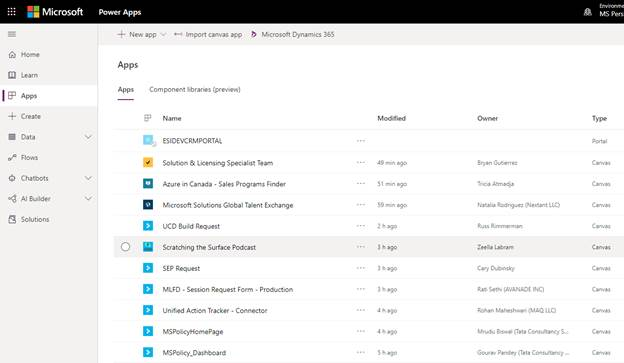
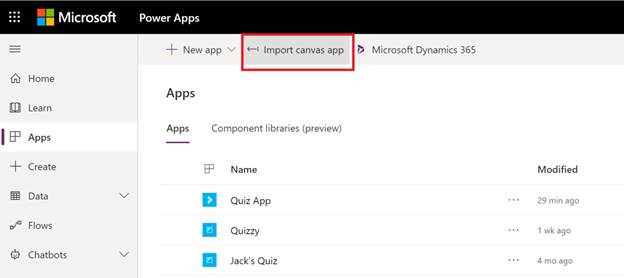
Updated Deployment Guide

diff --git a/README.md b/README.md
@@ -2,6 +2,8 @@
 
 **Quiz App** is a gamification based PowerApp hosted on Microsoft Teams. It is designed to test an end user’s knowledge on Microsoft Teams, thereby facilitating learning and it also helps in providing insights to the organization on areas to drive further awareness. The quiz, pinned on Microsoft Teams, can be easily accessible from any device at any time.
 
+It is a simple and interactive application and can be tailored for any of your internal Learning scenarios as well. The quiz is uniquely designed, in that, it randomly picks 10 questions from a large pool of questions, thereby ensuring that every user gets a unique experience. Questions are given along with four choices, and the user is provided an instant feedback whether he is right / wrong.
+
 ## Core Scenario
 ### Home: 
 This is app landing page that is displayed to the users once they login to the Quiz App.
@@ -22,42 +24,41 @@ On submission of the quiz by clicking "Submit Quiz" button, Total Score of the u
 ### Prerequisites
 To begin, you will need:
 * Power Apps Studio
-* SharePoint
+* SharePoint Online
 * Office 365 Groups connector
-* A copy of the Quiz app zip package (download here)
+* A copy of QuizApp zip package. Link to [QuizApp package](https://github.com/swatiarora11/QuizApp/blob/master/Deployment/QuizApp.zip)
 
 ### Step 1: Create SharePoint Team Site
 
 From Sharepoint Online, create a **Team Site** named as **Quiz**.
-<p> <img src="images/image050.png" />
-<p> <img src="images/image051.png" />
+<p> <img src="images/image003.png" />
+<p> <img src="images/image004.png" />
 
 ### Step 2: Create SharePoint Lists
 
-#### List1: Quiz Data
-This list contains the question bank that we will import from an Excel template. Get [Sample Quiz Data](https://github.com/swatiarora11/QuizApp/blob/master/Deployment/TeamsQuestionBank.xlsx). 
-<div>Note - *Please ensure to save this Excel file in a folder in your OneDrive for Business.*</div>
-
-Follow the below steps to create this list from the Excel file -
-1. Open **Lists** from the Office 365 Portal as shown below.<p> <img src="images/image003.png" />
-1. Select **New List**.<p> <img src="images/image004.png" />
-1. Select **From Excel** to import the list from the Excel file.<p> <img src="images/image005.png" />
-1. Select the file from the OneDrive for Business folder path and select **Next**.<p> <img src="images/image006.png" />
-1. You will see a **Loading Tables** message on pressing **Next** and it will thereafter load the table as shown below.<p> <img src="images/image007.jpg" />
-1. In above, we need to change the **Header field** for **Option 1** to **Title**. Note the change in below screenshot.<p> <img src="images/image008.png" />
-The list should now look as shown below – Select **Next** once this is done.<p> <img src="images/image009.png" />
-1. Set a **Name and Description** for the quiz. You may also set a color and icon (Optional)<p> <img src="images/image010.jpg" />
-1. In the **Save To** option, we now need to point to the **Quiz” Site** (which was created in **Step 1**) where this list must be deployed. Select this and click **Create** to initiate the creation of the list in the **Quiz Site**.<p> <img src="images/image011.png" />
-<br>Net outcome should be the list created as shown below –<p> <img src="images/image012.png" />
-1. Next, we need to again rename the Display Name for the column name **Title** to **Option 1**. To do this follow the screenshot below –<p> <img src="images/image013.png" /><p> <img src="images/image014.jpg" />
-<br>Net Result should look as shown below -<p> <img src="images/image015.png" />
+#### List1: Quiz Data (Question Bank for the quiz)
+1. We will use an Excel file containing the questions to create this list. For this, download the Excel Template from the repository here - [Sample Quiz Data](https://github.com/swatiarora11/QuizApp/blob/master/Deployment/TeamsQuestionBank.xlsx). 
+1. Navigate to the **Documents** document library folder in the Quiz team site and upload this excel document in the same.<p> <img src="images/image005.jpg" />
+1. Open **Site Contents** on the **Quiz Team Site** and select **New >> List**.<p> <img src="images/image006.jpg" />
+1. Enter the name of the List as **QuizData** and Select **From Excel** to import the list from the Excel file, saved in the **Documents** folder of the **Quiz Team Site**. Hit **Next** to continue.<p> <img src="images/image007.jpg" />
+1. You will see a **Loading Tables** message on pressing **Next** and it will thereafter load the table as shown below.<p> <img src="images/image008.jpg" />
+1. At this stage, we need to change the List Header fields as follows –
+* Set _Option1_ to _Title_
+* Set _SNo._ to _Number_
+* Set _Question_ to _Multiple lines of text_.
+<br>The columns should appear as shown below. Once you’re doing with this, click **Create**.<p> <img src="images/image009.jpg" />
+<br>Once created the **List** should look as shown below -<p> <img src="images/image010.png" />
+1. Next, we need to rename the column name **Title** to **Option1**. To do this follow the screenshot below –<p> <img src="images/image011.jpg" /><p> <img src="images/image012.jpg" />
+<br>Net Result should look as shown below -<p> <img src="images/image013.jpg" />
+1. Select **Option1** column and Drag & Drop the column before **Option2** for better readability of the list.<p> <img src="images/image014.jpg" />
+<br>The list should now look as below –<p> <img src="images/image015.jpg" />
 
 #### List2: User Quiz Data
 
 1. Navigate to the **Quiz** SharePoint site via the url - _https://<TenantName>.sharepoint.com/teams/Quiz_ and click on the **New** button to create a new **List**.<p> <img src="images/image016.jpg" />
 1. Add list name as **UserQuizData** and click **Create**. Please use this exact name for the list.
 1. Add below columns under **UserQuizData** list. Please make sure to follow exact naming convention for the columns as mentioned below.
-_**Note:** While creating the list, there is no need to add "Title" column, because SharePoint will automatically create that column_
+_**Note:** While creating the list, there is no need to add **Title** column, because SharePoint Online will automatically create that column_
 
 Name of Column     	| Type                	| Comment
 --------------------| ----------------------| ------------------------------------------------------------
@@ -67,53 +68,59 @@ Question			| Multiple line of text	| Captures the Question attempted by the user
 SubmittedAnswer		| Single Line of text	| Captures the response to the question by the user.
 Score				| Number				| Net score based on the answer to the question
 
-1. Rename the **Title** column to **Email**.<p> <img src="images/image055.jpg" /><p> <img src="images/image014.jpg" />
+1. Rename the **Title** column to **Email**.<p> <img src="images/image017.jpg" /><p> <img src="images/image018.jpg" />
+<br>Net Result will look as shown below –<p> <img src="images/image019.png" />
 
 #### List3: User Quiz Summary
 
 1. Navigate to the **Quiz** SharePoint site via the url - _https://<TenantName>.sharepoint.com/teams/Quiz_ and click on the **New** button to create a new **List**.<p> <img src="images/image016.jpg" />
 1. Add list name as **UserQuizSummary** and click **Create**. Please use this exact name for the list.
 1. Add below columns under **UserQuizSummary** list. Please make sure to follow exact naming convention for the columns as mentioned below.
-_**Note:** While creating the list, there is no need to add "Title" column, because SharePoint will automatically create that column_
+_**Note:** While creating the list, there is no need to add **Title** column, because SharePoint Online will automatically create that column_
 
 Name of Column     	| Type                	| Comment
 --------------------| ----------------------| ------------------------------------------------------------
 Title				| Single line of text	| Auto generated by SharePoint. We will rename this column to **Email** in next step.
-Name				| Single line of text	| Captures the Display name of the user.
+Name				| Single line of text	| Captures the full name of the user.
 Score				| Number 				| Score of the Quiz taken by User
 Status				| Yes/No				| Status of Quiz is taken by the user
 Time				| Number				| Time captured to attempt the Quiz in seconds
 
-1. Rename the **Title** column to **Email**.<p> <img src="images/image055.jpg" /><p> <img src="images/image014.jpg" />
+1. Rename the **Title** column to **Email**.<p> <img src="images/image017_1.jpg" /><p> <img src="images/image018.jpg" />
+<br>Net Result will look as shown below –<p> <img src="images/image019_1.png" />
 
 #### Step 3: Import Package in Power Apps using zip file
 1. Navigate to Power Apps https://make.powerapps.com/
 1. Click on Apps in the left side pane and click on **Import canvas app**.<p> <img src="images/image020.jpg" />
 1. Import the package zip file.
 1. Click on the wrench icon present under **Action** label to change name of the app. Change name of the app to **QuizApp** and click on **Save**.<p> <img src="images/image021.jpg" />
-1. Click on **Import** button at bottom.
+1. Click on **Import** button at bottom.<p> <img src="images/image022.jpg" />
 1. You will see a successful messsage after importing the app.
 
 #### Step 4: Edit Data source
 1. Click on **Open app** link when zip package is successfully imported. You will be redirected to PowerApps portal.
-1. Click on **Open** menu at the left side > Power Apps > QuizApp which you have imported.
-1. The app will request your permission to use all the listed data connections.
+1. Using left side menu, navigate to **Open > Power Apps > QuizApp** which you have imported.
+1. The app will request your permission to use all the listed data connections.<p> <img src="images/image023.png" />
 1. Go to left menu > click **View** and select **Data sources**.
-1. Search and select **SharePoint** site - _https://<TenantName>.sharepoint.com/teams/Quiz_
-1. Enter the SharePoint URL created in above step.<p> <img src="images/image023.jpg" />
-1. Select **QuizData, UserQuizData, UserQuizSummary** check boxes and click **Connect**.<p> <img src="images/image024.jpg" />
+<br>**VIMP -** _Delete the 3 existing lists – **QuizData, UserQuizData and UserQuizSummary** as shown below._ These will be reimported in the next step.<p> <img src="images/image024.jpg" />
+1. Search and select **SharePoint** site - _https://<TenantName>.sharepoint.com/teams/Quiz_ and click _Connect_<p> <img src="images/image025.jpg" />
+1. Enter the SharePoint URL created in above step.<p> <img src="images/image026.jpg" />
+1. Select **QuizData, UserQuizData, UserQuizSummary** check boxes and click **Connect**.<p> <img src="images/image027.jpg" />
+1. Make the App personal by also adding your Company Name and Logo to the App. Select the Label2_4 in the app and edit the **Text** field as shown –<p> <img src="images/image028.png" />
+<br>You may also insert a small image / logo to be placed next to the organization name –<p> <img src="images/image029.png" />
 
 #### Step 5: Share Power Apps
-1. Admin needs to share the app to all individuals who will be using the app.
+1. Once the required changes are made in above steps, click on **File >> Save** the app. Thereafter **Publish** the app.
+1. Once the app is published, Admin needs to share the app to all individuals who will be using the app. You will get a Share option as soon as you publish the app and if you wish to share the app at this time, **jump to point 6**. Else proceed to **Point 3**.
 1. Open https://make.preview.powerapps.com/
-1. Go to Apps menu in the left menu bar and you will be able to see the app you have imported.<p> <img src="images/image025.jpg" />
-1. Click on 3 dots (Options) for your app and click on **Share**.
-1. Enter the **group name** containing the users in the popup and click on **Share**. You can also add additional members if needed. This permission is required to grant access to the **QuizApp**.
+1. Go to Apps menu in the left menu bar and you will be able to see the app you have imported.
+1. Click on 3 dots (Options) for your app and click on **Share**.<p> <img src="images/image030.jpg" />
+1. Enter the **group name** containing the users in the popup and click on **Share**. You can also add additional members if needed. This permission is required to grant access to the **QuizApp**.<p> <img src="images/image031.jpg" />
 
 #### Step 6: Export Teams Package
 1. Open https://make.preview.powerapps.com/
 1. Go to Apps menu in the left menu bar and you will be able to see the app you have imported.
-1. Click on 3 dots (Options) for your app and click on **Add to Teams**.<p> <img src="images/image026.jpg" />
+1. Click on 3 dots (Options) for your app and click on **Add to Teams**.<p> <img src="images/image032.jpg" />
 1. Click on **Download App** in the popup to download a zip package.
 
 #### Step 7: Adding App to Teams via Teams Admin Center
